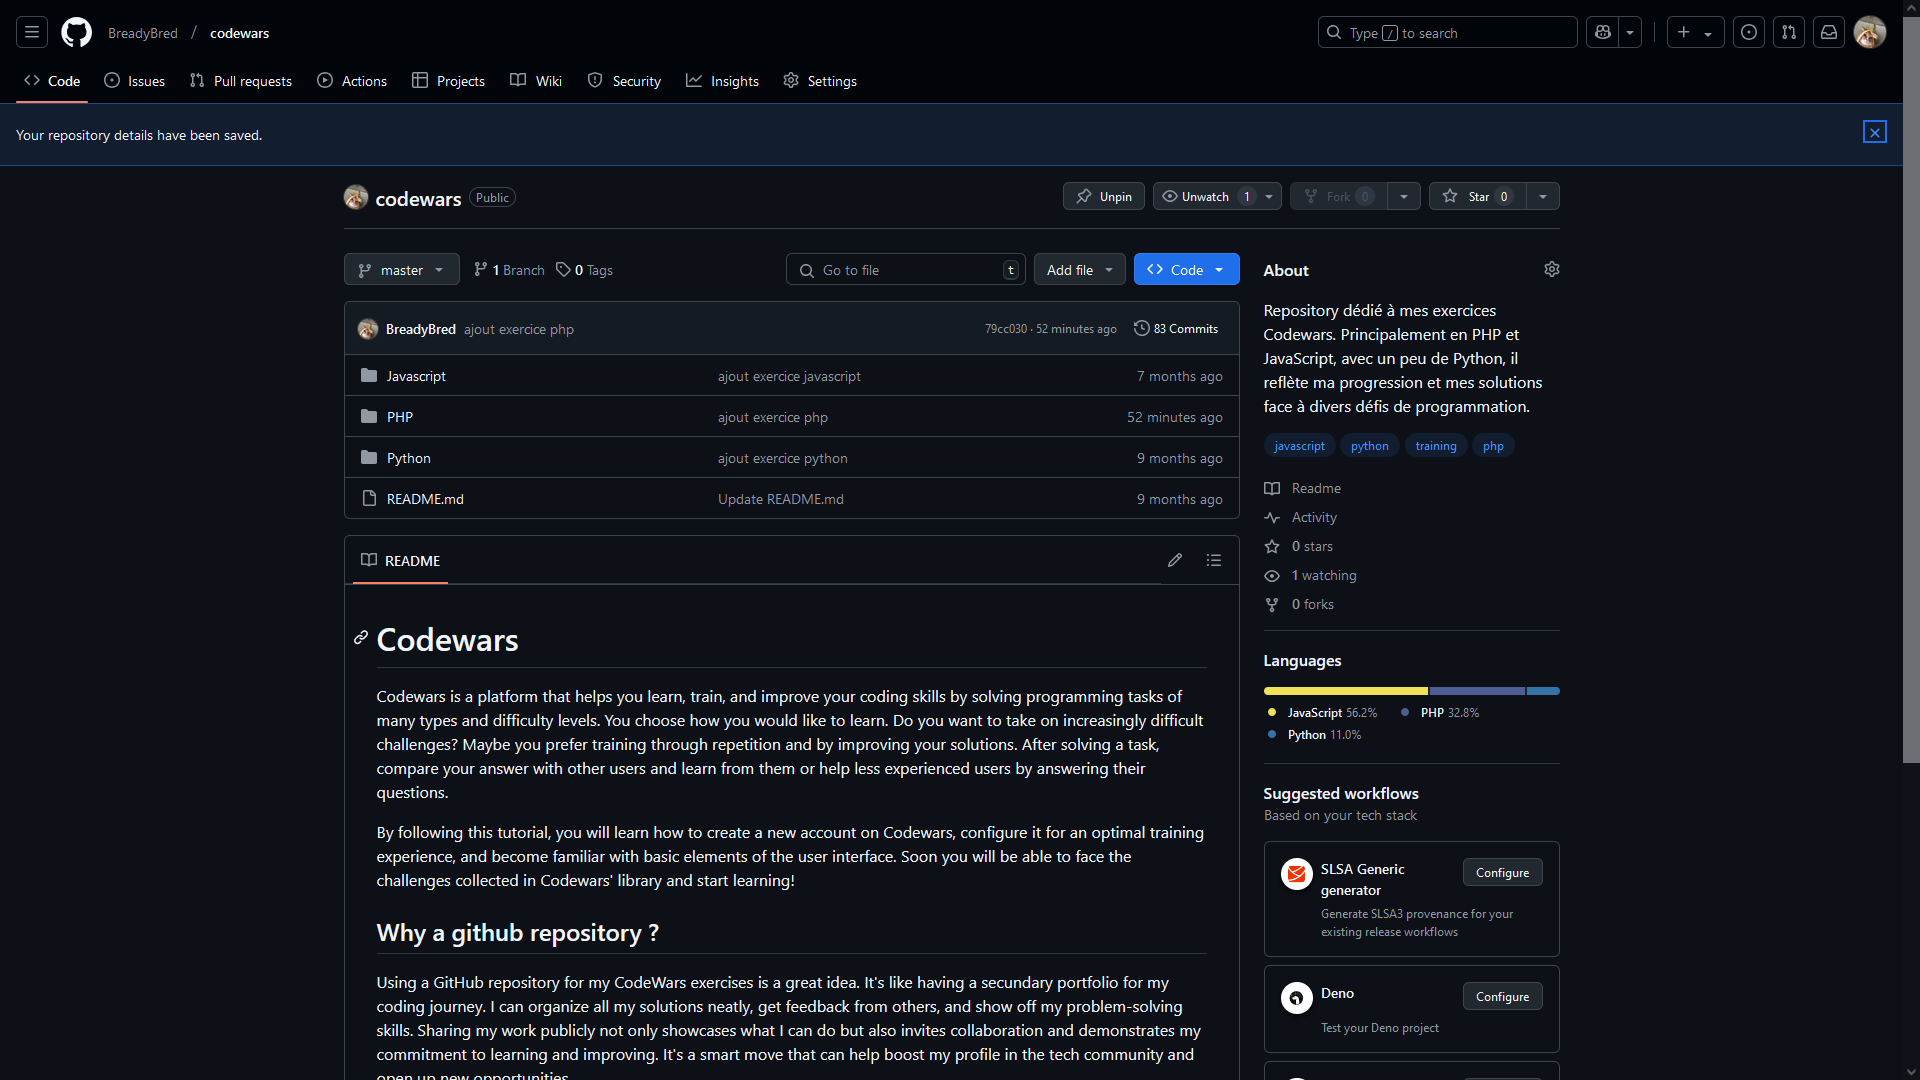
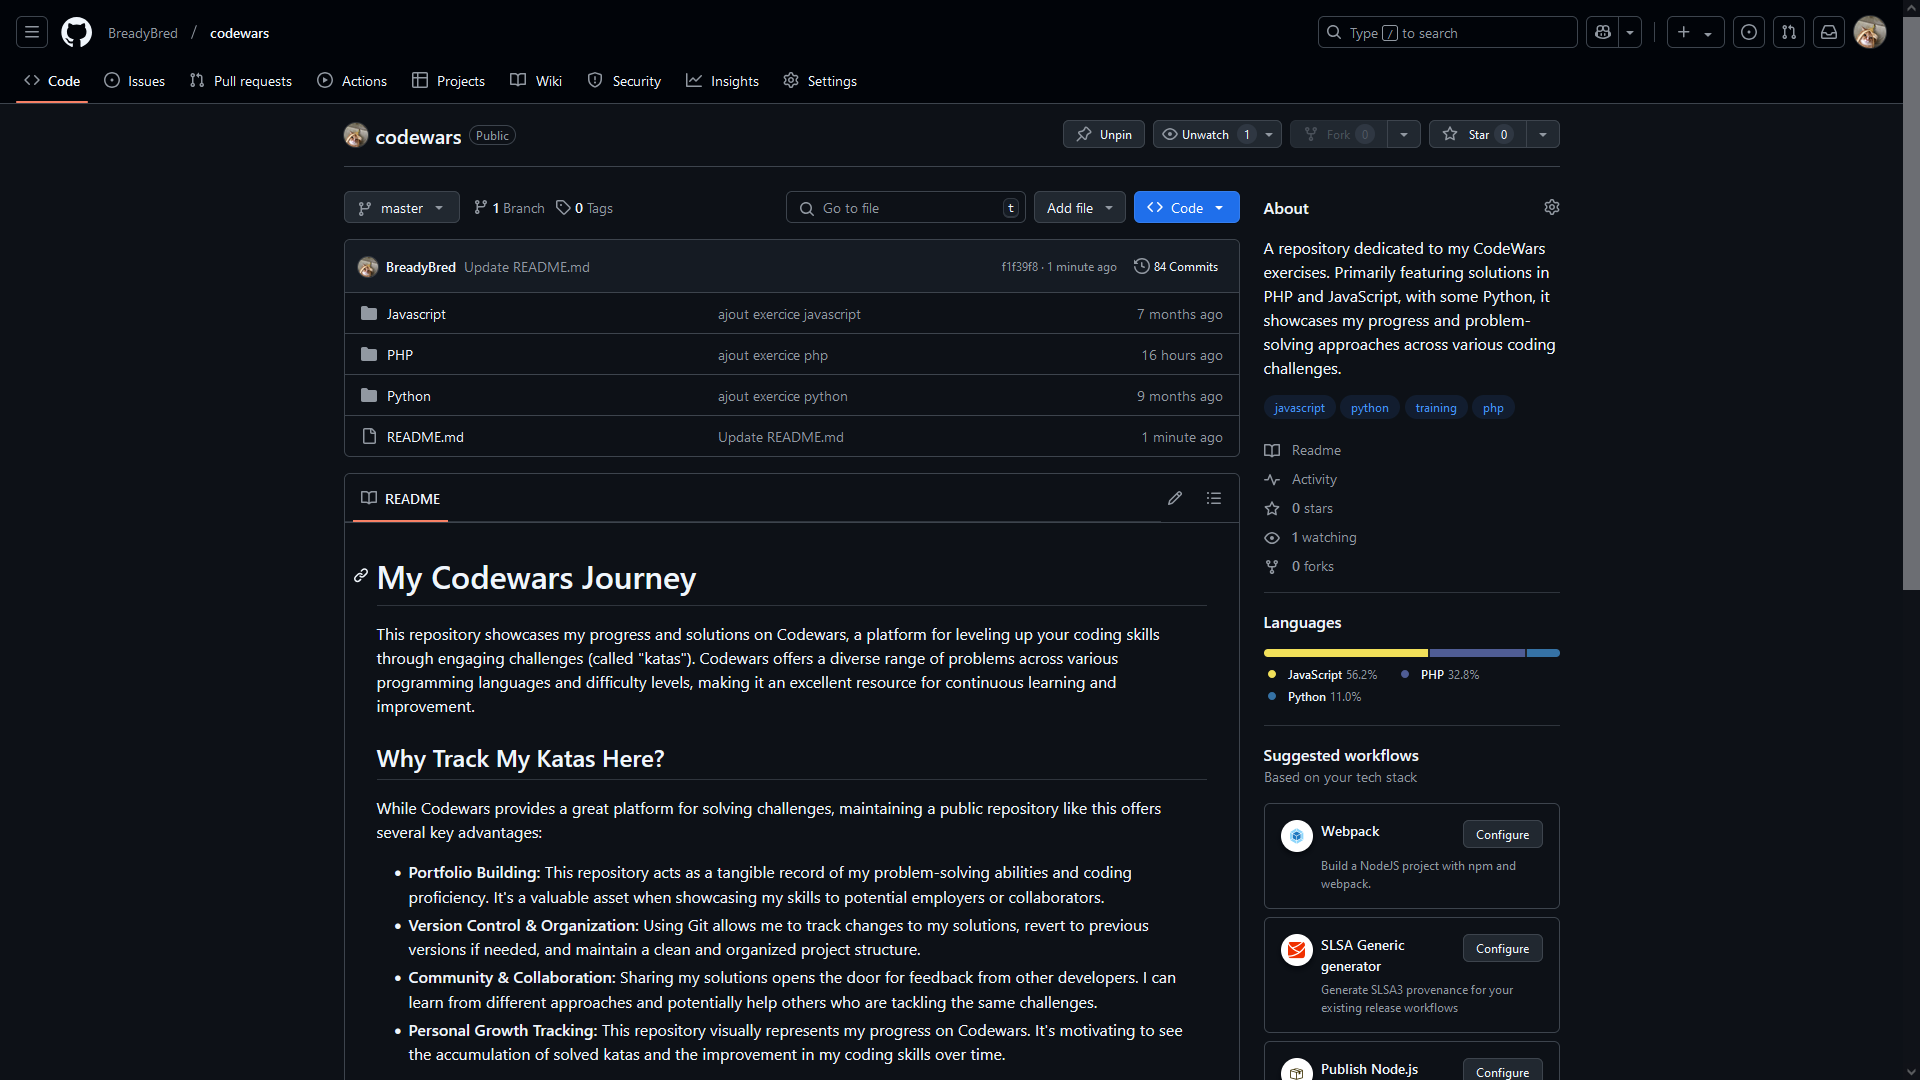
Modif Codewars description & fix erreurs

diff --git a/functions/includes/page_parts.php b/functions/includes/page_parts.php
@@ -433,7 +433,7 @@ function display_single_project(string $project_name):string {
 	$description_lines = explode('. ', $description);
 	$description = "";
 	foreach($description_lines as $description_line)
-		$description .= "<span>$description_line.</span>";
+		$description .= "<span>$description_line</span>";
 
 	$structure = "
 	<section class='project-showcase'>
@@ -560,7 +560,7 @@ function display_primary_functions():string {
 			$structure .= "<h2 class='underlined cat-title'>Projets</h2>";
 			$structure .= "<span class='functions'>";
 				$structure .= "<h3 class='function-title a-tdc-hv' data-id='create-project'	>Ajouter un projet</h3>";
-				$structure .= "<h3 class='function-title a-tdc-hv' data-id='update-project'	>Update un projet</h3>";
+				$structure .= "<h3 class='function-title a-tdc-hv' data-id='update-project'	>Modifier un projet</h3>";
 				$structure .= "<h3 class='function-title a-tdc-hv' data-id='show-project'	>Montrer un projet</h3>";
 				$structure .= "<h3 class='function-title a-tdc-hv' data-id='hide-project'	>Cacher un projet</h3>";
 				$structure .= "<h3 class='function-title a-tdc-hv' data-id='delete-project'	>Supprimer un projet</h3>";
